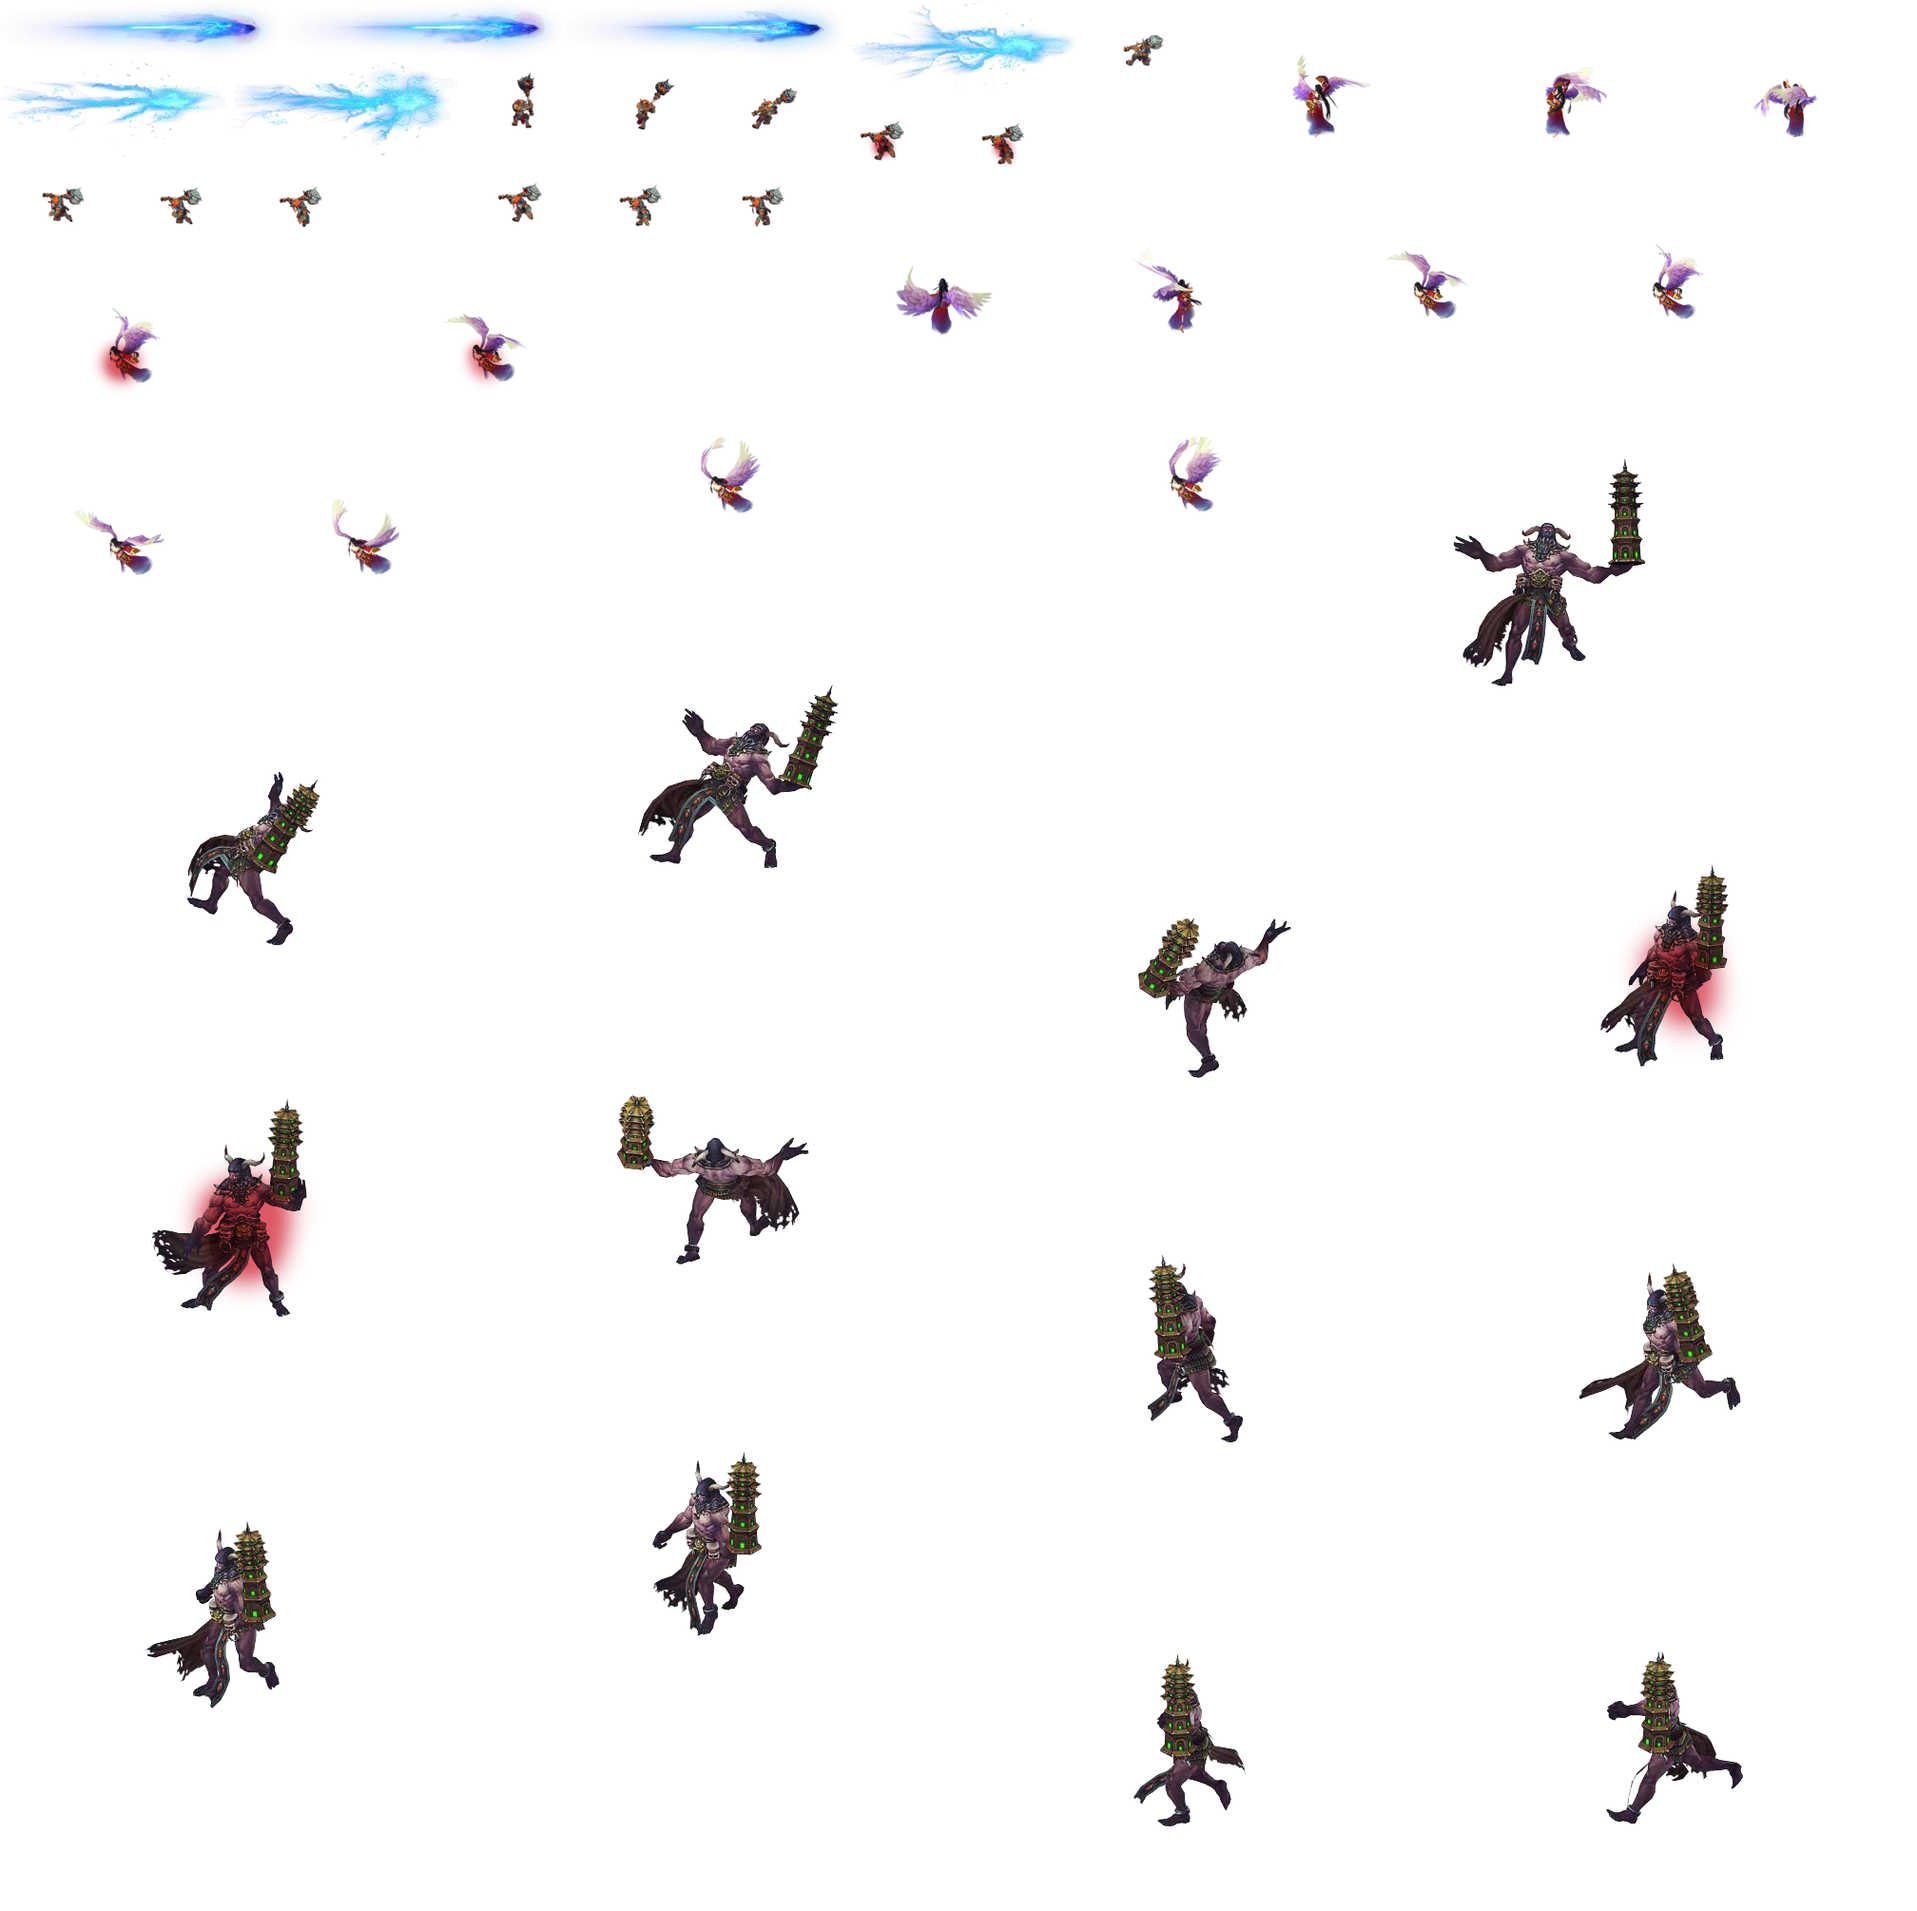
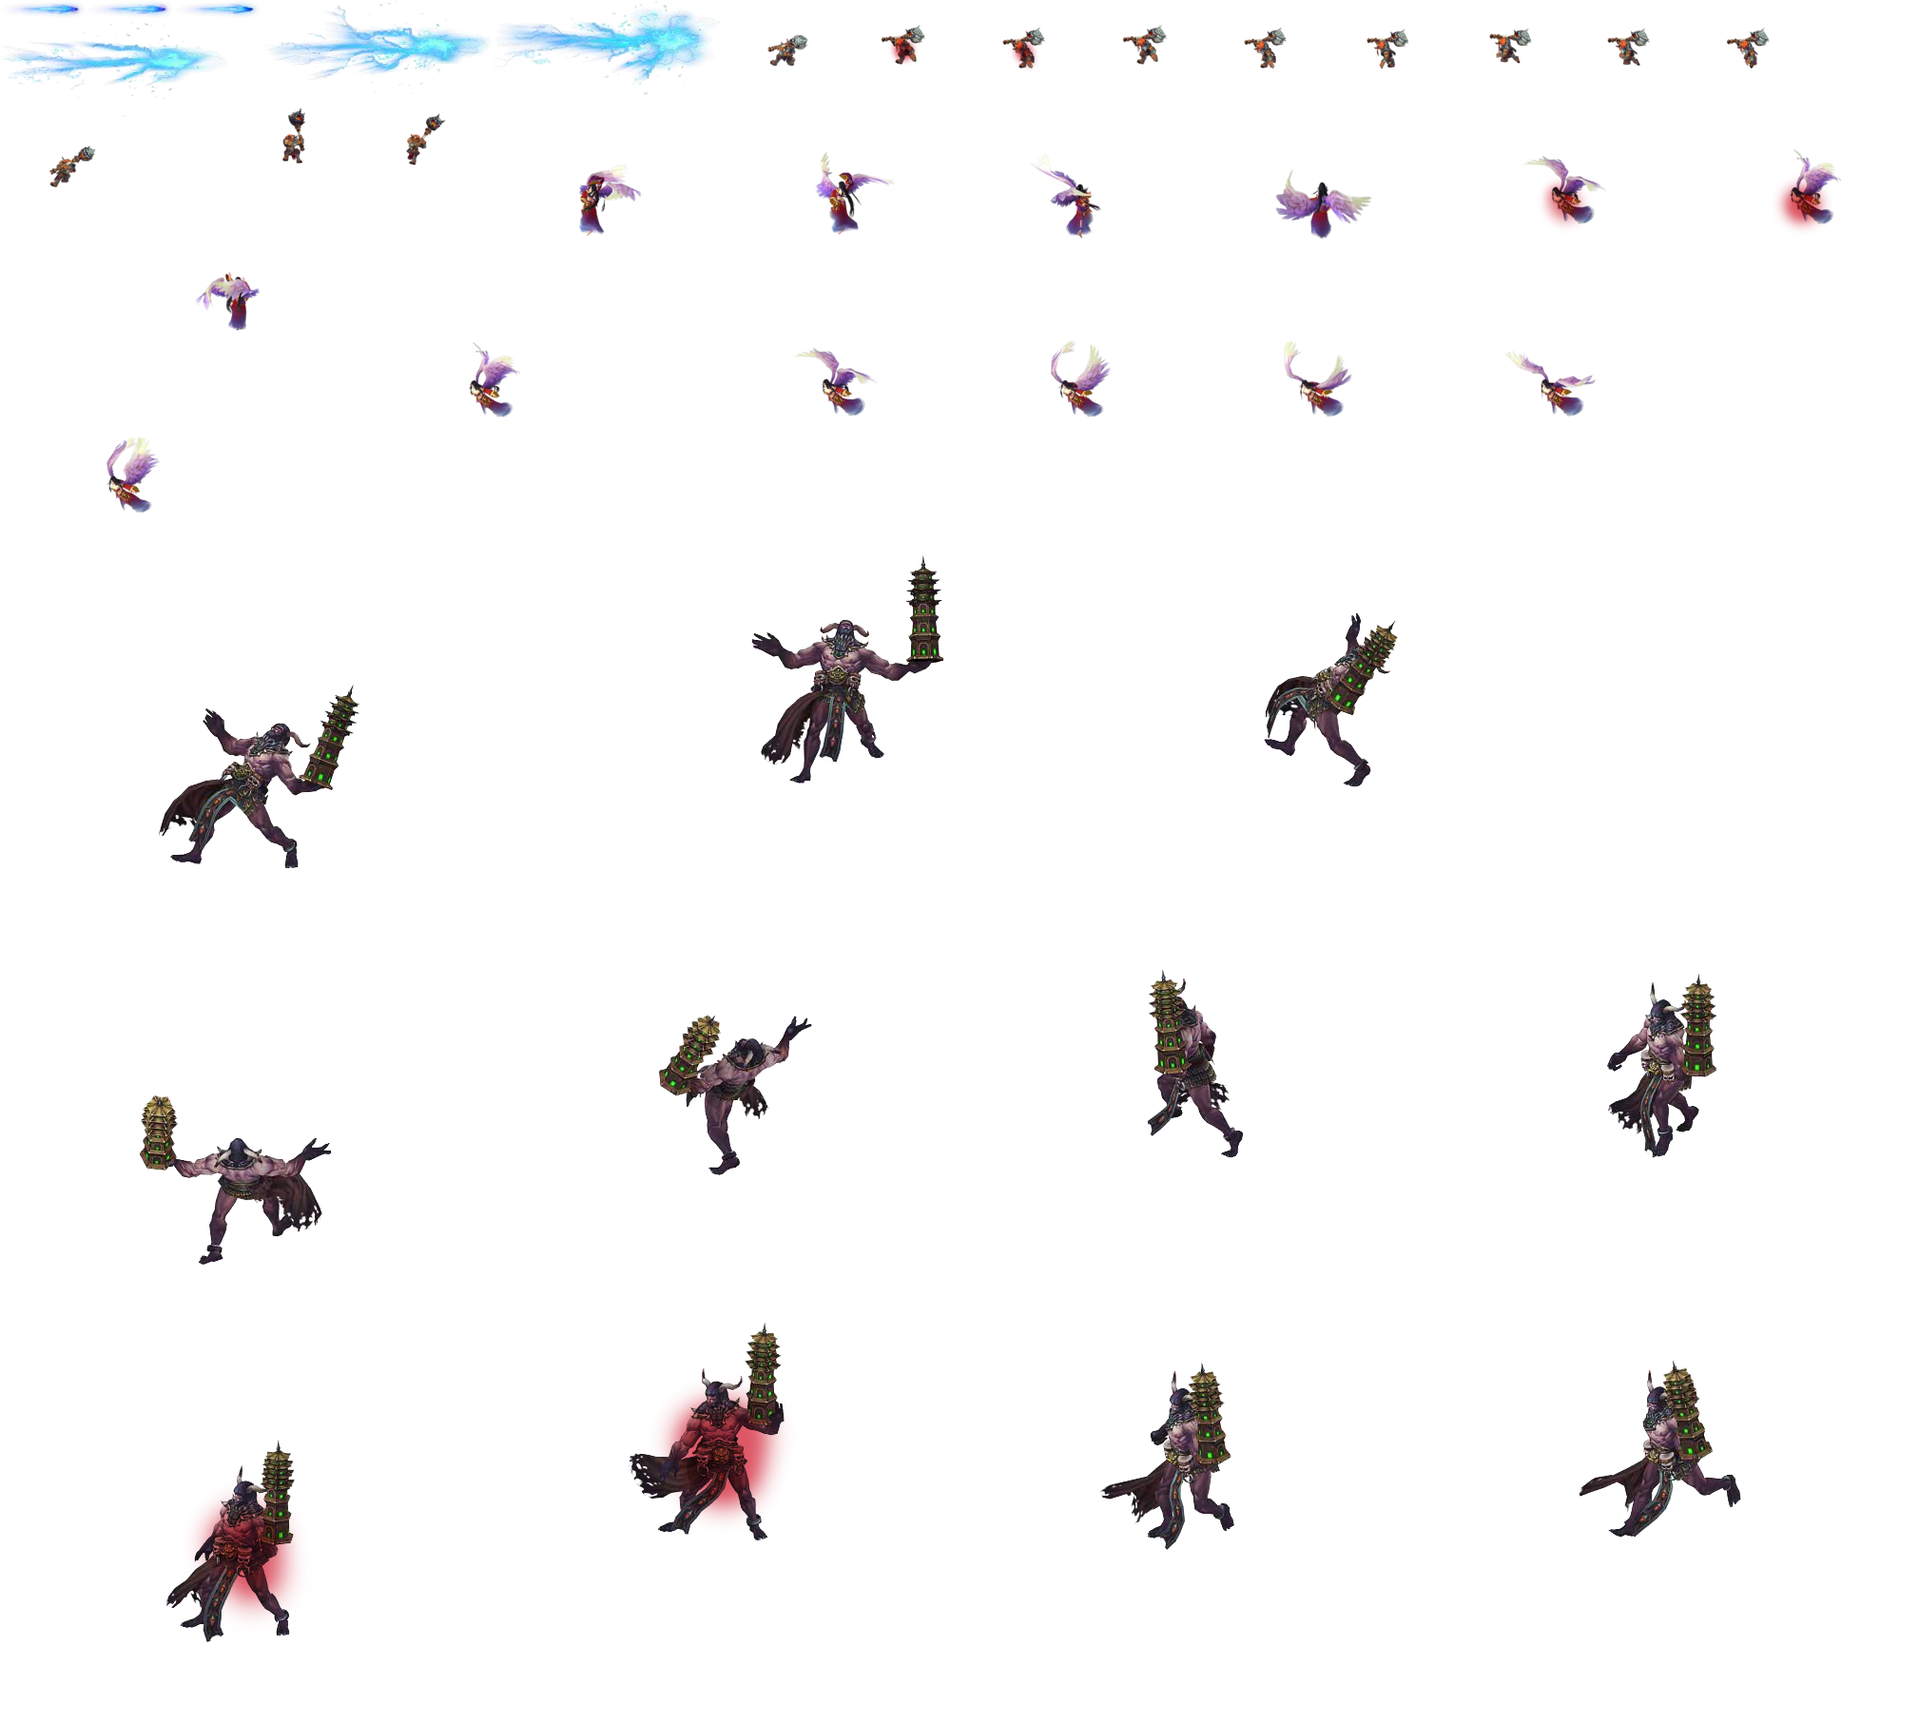
bullet finish
hit radius may need further adjust

diff --git a/bin/js/Game.js b/bin/js/Game.js
@@ -6,7 +6,7 @@ var Game = (function () {
         //enemy speed table
         this.speeds = [3, 2, 1];
         //enemy been hit radius
-        this.radius = [15, 15, 15];
+        this.radius = [15, 30, 60];
         Laya.init(1000, 600);
         var bg = new BackGround();
         Laya.stage.addChild(bg);
@@ -15,10 +15,11 @@ var Game = (function () {
     Game.prototype.onLoaded = function () {
         this.hero = new Role();
         //initialize hero
-        this.hero.init('hero', 0, 1, 0, 30);
+        this.hero.init('hero', 0, 5, 0, 30);
         //hero pos
         this.hero.pos(50, 300);
         Laya.stage.addChild(this.hero);
+        this.hero.shootType = 1;
         //mouse listener
         Laya.stage.on('mousemove', this, this.onMouseMove);
         //main loop
@@ -30,16 +31,65 @@ var Game = (function () {
             if (role && role.speed) {
                 role.x -= role.speed;
                 //if enemy out of bound, remove it
-                if (role.x < 0) {
+                if (role.x < 0 || !role.visible || (role.isBullet && role.x > 1000)) {
                     role.removeSelf();
                     //recycle
+                    role.isBullet = false;
+                    role.visible = true;
                     Laya.Pool.recover('role', role);
                 }
             }
+            if (role.shootType > 0) {
+                var time = Laya.Browser.now();
+                if (time > role.shootTime) {
+                    role.shootTime = time + role.shootInterval;
+                    var bullet = Laya.Pool.getItemByClass('role', Role);
+                    bullet.init('bullet1', role.camp, 1, -5, 1);
+                    bullet.isBullet = true;
+                    bullet.pos(role.x - role.hitRadius + 40, role.y + 25);
+                    Laya.stage.addChild(bullet);
+                }
+            }
+        }
+        //collision detect
+        var n = Laya.stage.numChildren;
+        for (var i = Laya.stage.numChildren - 1; i > 0; i--) {
+            var role1 = Laya.stage.getChildAt(i);
+            if (role.hp < 1)
+                continue;
+            for (var j = i - 1; j > 0; j--) {
+                if (!role.visible)
+                    continue;
+                var role2 = Laya.stage.getChildAt(j);
+                if (role2.hp > 0 && role1.camp != role2.camp) {
+                    var hitRadius = role1.hitRadius + role2.hitRadius;
+                    if (Math.abs(role1.x - role2.x) < hitRadius && Math.abs(role1.y - role2.y) < hitRadius) {
+                        this.lostHp(role1, 1);
+                        this.lostHp(role2, 1);
+                    }
+                }
+            }
+        }
+        if (this.hero.hp < 1) {
+            Laya.timer.clear(this, this.onLoop);
         }
         //create new enemy every 30 frames
         if (Laya.timer.currFrame % 120 === 0) {
             this.createEnemy(2);
+        }
+    };
+    Game.prototype.lostHp = function (role, lostHp) {
+        role.hp -= lostHp;
+        if (role.hp > 0) {
+            role.playAction('hit');
+        }
+        else {
+            if (role.isBullet) {
+                role.visible = false;
+            }
+            else {
+                role.playAction('down');
+            }
         }
     };
     Game.prototype.onMouseMove = function (e) {
@@ -52,7 +102,7 @@ var Game = (function () {
             var type = r < 0.7 ? 0 : r < 0.95 ? 1 : 2;
             var enemy = Laya.Pool.getItemByClass('role', Role);
             //initialize enemy
-            enemy.init('enemy' + (type + 1), 0, this.hps[type], this.speeds[type], this.radius[type]);
+            enemy.init('enemy' + (type + 1), 1, this.hps[type], this.speeds[type], this.radius[type]);
             //random pos
             enemy.pos(1000 - Math.random() * 40, 50 + Math.random() * 500);
             Laya.stage.addChild(enemy);

diff --git a/src/Game.ts b/src/Game.ts
@@ -12,10 +12,11 @@ class Game{
     onLoaded(){
         this.hero = new Role();
         //initialize hero
-        this.hero.init('hero',0,1,0,30);
+        this.hero.init('hero',0,5,0,30);
         //hero pos
         this.hero.pos(50,300);
         Laya.stage.addChild(this.hero);
+        this.hero.shootType = 1;
         //mouse listener
         Laya.stage.on('mousemove',this,this.onMouseMove);
 
@@ -29,16 +30,65 @@ class Game{
                 role.x -= role.speed;
 
                 //if enemy out of bound, remove it
-                if(role.x < 0){
+                if(role.x < 0 || !role.visible || (role.isBullet && role.x > 1000)){
                     role.removeSelf();
                     //recycle
+                    role.isBullet = false;
+                    role.visible = true;
                     Laya.Pool.recover('role',role);
                 }
             }
+            if(role.shootType > 0){
+                var time: number = Laya.Browser.now();
+                if(time > role.shootTime){
+                    role.shootTime = time + role.shootInterval;
+                    var bullet = Laya.Pool.getItemByClass('role',Role);
+                    bullet.init('bullet1',role.camp,1,-5,1);
+                    bullet.isBullet = true;
+                    bullet.pos(role.x-role.hitRadius+40,role.y+25);
+                    Laya.stage.addChild(bullet);
+                }
+            }
         }
+
+        //collision detect
+        var n: number = Laya.stage.numChildren;
+        for(var i: number = Laya.stage.numChildren-1; i > 0; i--){
+            var role1:Role = Laya.stage.getChildAt(i) as Role;
+            if(role.hp < 1) continue;
+            for(var j: number = i-1; j > 0; j--){
+                if(!role.visible) continue;
+                var role2 = Laya.stage.getChildAt(j) as Role;
+                if(role2.hp > 0 && role1.camp != role2.camp){
+                    var hitRadius: number = role1.hitRadius + role2.hitRadius;
+                    if(Math.abs(role1.x-role2.x) < hitRadius && Math.abs(role1.y-role2.y) < hitRadius){
+                        this.lostHp(role1,1);
+                        this.lostHp(role2,1);
+                    }
+                }
+            }
+        }
+
+        if(this.hero.hp < 1){
+            Laya.timer.clear(this,this.onLoop);
+        }
+
         //create new enemy every 30 frames
         if(Laya.timer.currFrame % 120 === 0){
             this.createEnemy(2);
+        }
+    }
+
+    lostHp(role: Role, lostHp: number): void{
+        role.hp -= lostHp;
+        if(role.hp > 0){
+            role.playAction('hit');
+        }else{
+            if(role.isBullet){
+                role.visible = false;
+            }else{
+                role.playAction('down');
+            }
         }
     }
     onMouseMove(e:Laya.Event):void{
@@ -52,7 +102,7 @@ class Game{
     //enemy speed table
     private speeds: Array<number> = [3,2,1];
     //enemy been hit radius
-    private radius: Array<number> = [15,15,15];
+    private radius: Array<number> = [15,30,60];
 
     createEnemy(num: number):void{
         for(var i: number = 0; i < num; i++){
@@ -60,7 +110,7 @@ class Game{
             var type: number = r < 0.7?0:r<0.95?1:2;
             var enemy: Role = Laya.Pool.getItemByClass('role',Role);
             //initialize enemy
-            enemy.init('enemy'+(type+1),0,this.hps[type],this.speeds[type],this.radius[type]);
+            enemy.init('enemy'+(type+1),1,this.hps[type],this.speeds[type],this.radius[type]);
 
             //random pos
             enemy.pos(1000-Math.random()*40, 50+Math.random()*500);

diff --git a/bin/js/Role.js b/bin/js/Role.js
@@ -7,6 +7,11 @@ var Role = (function (_super) {
     __extends(Role, _super);
     function Role() {
         _super.call(this);
+        this.hitRadius = 0;
+        this.shootType = 0;
+        this.shootInterval = 500;
+        this.shootTime = Laya.Browser.now() + 2000;
+        this.isBullet = false;
     }
     Role.prototype.init = function (type, camp, hp, speed, hitRadius) {
         //initialize attributes
@@ -49,15 +54,31 @@ var Role = (function (_super) {
             Laya.Animation.createFrames(['war/enemy3_walk1.png', 'war/enemy3_walk2.png', 'war/enemy3_walk3.png', 'war/enemy3_walk4.png',
                 'war/enemy3_walk5.png', 'war/enemy3_walk6.png', 'war/enemy3_walk7.png', 'war/enemy3_walk8.png',
                 'war/enemy3_walk9.png', 'war/enemy3_walk10.png', 'war/enemy3_walk11.png', 'war/enemy3_walk12.png'], 'enemy3_walk');
+            //bullet1 walk
+            Laya.Animation.createFrames(['war/bullet1_fly1.png', 'war/bullet1_fly2.png', 'war/bullet1_fly3.png'], 'bullet1_walk');
         }
         if (!this.body) {
             this.body = new Laya.Animation();
+            //set animation interval
+            this.body.interval = 50;
             this.addChild(this.body);
+            this.body.on('complete', this, this.onPlayComplete);
         }
         //play walk animations
         this.playAction('walk');
     };
+    Role.prototype.onPlayComplete = function () {
+        if (this.action === 'down') {
+            this.body.stop();
+            this.visible = false;
+        }
+        else if (this.action === 'hit') {
+            this.playAction('fly');
+        }
+    };
     Role.prototype.playAction = function (action) {
+        //record current action
+        this.action = action;
         this.body.play(0, true, this.type + '_' + action);
         var bound = this.body.getBounds();
         this.body.pos(-bound.width / 2, -bound.height / 2);

diff --git a/src/Role.ts b/src/Role.ts
@@ -6,7 +6,14 @@ class Role extends Laya.Sprite{
     public camp: number;
     public hp: number;
     public speed: number;
-    public hitRadius: number;
+    public hitRadius: number = 0;
+
+    public shootType: number = 0;
+    public shootInterval: number = 500;
+    public shootTime: number = Laya.Browser.now()+2000;
+
+    public action: string;
+    public isBullet: boolean = false;
 
     constructor(){
         super();
@@ -55,16 +62,33 @@ class Role extends Laya.Sprite{
             Laya.Animation.createFrames(['war/enemy3_walk1.png','war/enemy3_walk2.png','war/enemy3_walk3.png','war/enemy3_walk4.png',
             'war/enemy3_walk5.png','war/enemy3_walk6.png','war/enemy3_walk7.png','war/enemy3_walk8.png',
             'war/enemy3_walk9.png','war/enemy3_walk10.png','war/enemy3_walk11.png','war/enemy3_walk12.png'],'enemy3_walk');
+
+            //bullet1 walk
+            Laya.Animation.createFrames(['war/bullet1_fly1.png','war/bullet1_fly2.png','war/bullet1_fly3.png'],'bullet1_walk');
         }
         
         if(!this.body){
             this.body = new Laya.Animation();
+            //set animation interval
+            this.body.interval = 50;
             this.addChild(this.body);
+
+            this.body.on('complete',this,this.onPlayComplete);
         }
         //play walk animations
         this.playAction('walk');
     }
+    onPlayComplete():void{
+        if(this.action === 'down'){
+            this.body.stop();
+            this.visible = false;
+        }else if(this.action === 'hit'){
+            this.playAction('fly');
+        }
+    }
     playAction(action: string):void{
+        //record current action
+        this.action = action;
         this.body.play(0,true,this.type + '_'+action);
         var bound: Laya.Rectangle = this.body.getBounds();
         this.body.pos(-bound.width/2,-bound.height/2);
